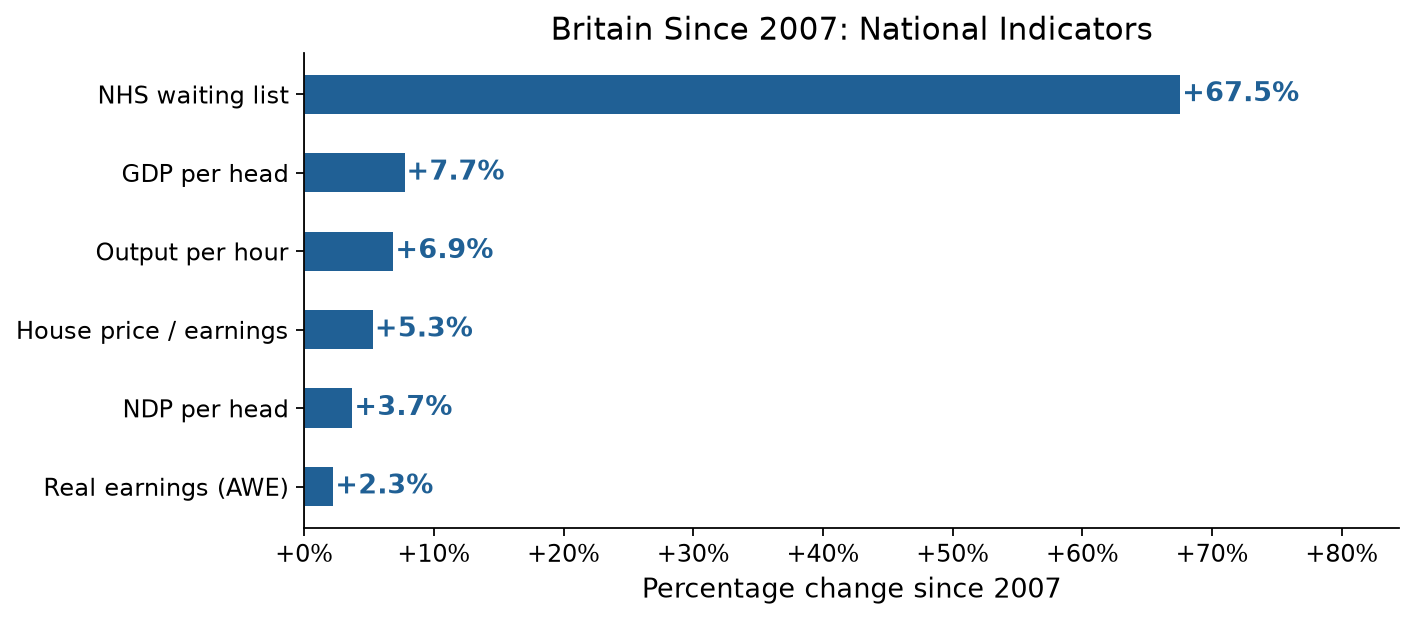
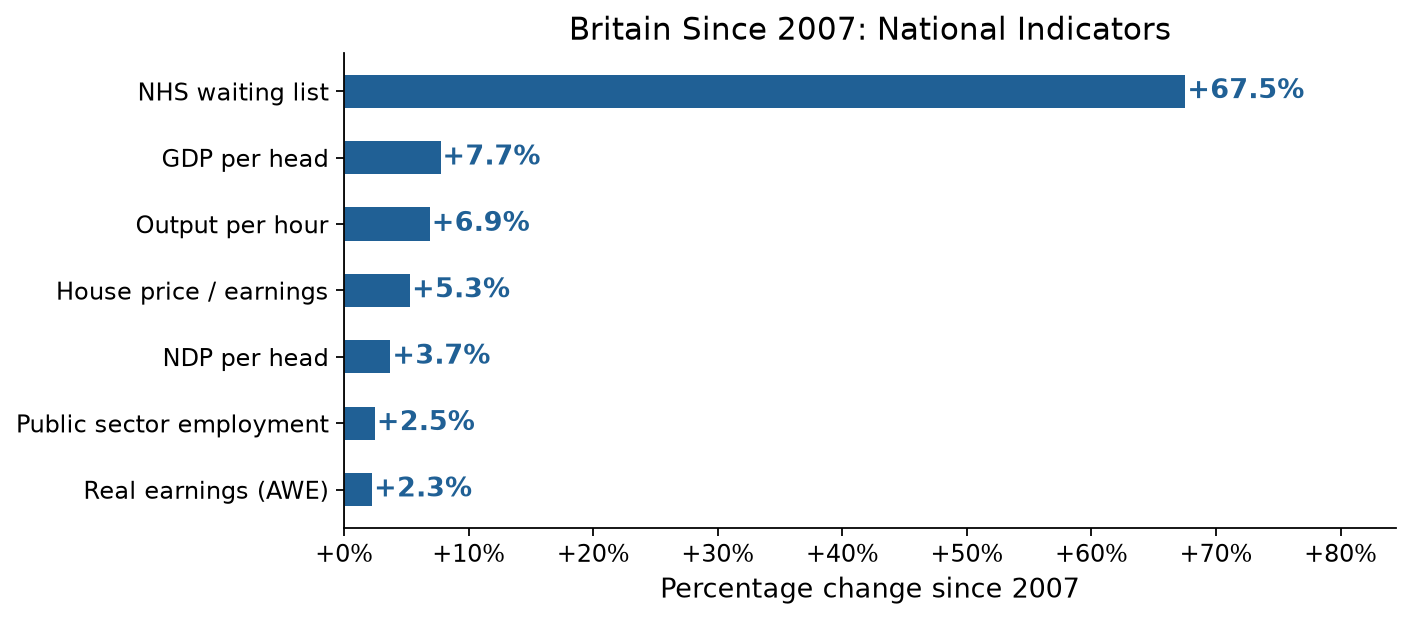
feat: add public sector employment indicator (C010) and related documentation and data

diff --git a/src/process_indicators.py b/src/process_indicators.py
@@ -241,6 +241,33 @@ def process_nhs_waiting_list() -> dict:
     }
 
 
+def _read_pse_csv() -> pd.DataFrame:
+    """Read ONS public sector employment dataset with CDID columns."""
+    raw = pd.read_csv(RAW_DIR / "pse.csv", header=None)
+    columns = raw.iloc[1].tolist()
+    df = raw.iloc[7:].copy()
+    df.columns = columns
+    df = df.rename(columns={"CDID": "period"})
+    df["period"] = df["period"].astype(str).str.strip()
+    return df
+
+
+def process_public_sector_employment() -> dict:
+    """Extract total public sector employment, headcount, UK, seasonally adjusted."""
+    df = _read_pse_csv()
+    df["value"] = pd.to_numeric(df["G7AU"], errors="coerce")
+    baseline = df.loc[df["period"] == "2007", "value"].iloc[0]
+    latest = df.loc[df["period"] == "2025", "value"].iloc[0]
+    return {
+        "indicator_id": "public_sector_employment",
+        "geography": "UK",
+        "baseline_year": 2007,
+        "baseline_value": float(baseline),
+        "latest_year": 2025,
+        "latest_value": float(latest),
+    }
+
+
 def build_national_table() -> pd.DataFrame:
     """Build the populated national comparison table."""
     rows = [
@@ -250,6 +277,7 @@ def build_national_table() -> pd.DataFrame:
         process_real_earnings(),
         process_housing_affordability(),
         process_nhs_waiting_list(),
+        process_public_sector_employment(),
     ]
     df = pd.DataFrame(rows)
     # Add remaining columns with empty placeholders
@@ -264,6 +292,7 @@ def build_national_table() -> pd.DataFrame:
         "Nominal AWE (KAB9) deflated by CPI (D7BT) to 2025 prices. Whole economy, total pay, seasonally adjusted. Monthly data available.",
         "Ratio of median house price to median gross annual workplace-based earnings. England and Wales only (not UK). Peaked at 8.95 in 2021 before declining to 7.55 in 2025. Five-year average is 8.19.",
         "NHS England total incomplete RTT pathways. August 2007 = first month of incomplete-pathway data collection. Monthly commissioner-basis values are used where available, with NHS historical time-series values retained for older periods. The series peaks in August 2023 before falling to the latest point in March 2026.",
+        "ONS public sector employment, total public sector, UK, headcount, seasonally adjusted. Reclassifications affect the total public sector series, so the employment share and excluding-major-reclassifications series should also be checked when interpreting growth.",
     ]
     return df[PROCESSED_COLS]
 
@@ -524,6 +553,34 @@ def _real_earnings_long_rows() -> list[dict]:
     return rows
 
 
+def _public_sector_employment_long_rows() -> list[dict]:
+    """Extract total public sector employment for all years 2007–2025."""
+    df = _read_pse_csv()
+    df["value"] = pd.to_numeric(df["G7AU"], errors="coerce")
+    annual = df[df["period"].str.match(r"^\d{4}$", na=False) & df["value"].notna()].copy()
+    annual["year"] = annual["period"].astype(int)
+    annual = annual[(annual["year"] >= 2007) & (annual["year"] <= 2025)]
+
+    rows = []
+    for _, row in annual.iterrows():
+        rows.append({
+            "indicator_id": "public_sector_employment",
+            "indicator_name": "Public sector employment",
+            "domain": "Public Services",
+            "geography_code": GEOGRAPHY_CODES["UK"],
+            "geography_name": "UK",
+            "geography_type": "national",
+            "period_type": "annual",
+            "period": row["period"],
+            "year": int(row["year"]),
+            "value": round(float(row["value"]), 0),
+            "unit": "thousand people, headcount SA",
+            "source_url": "https://www.ons.gov.uk/file?uri=/employmentandlabourmarket/peopleinwork/publicsectorpersonnel/datasets/publicsectoremploymenttimeseriesdataset/current/pse.csv",
+            "quality_flag": "OK",
+        })
+    return rows
+
+
 LONG_FORMAT_COLS = [
     "indicator_id", "indicator_name", "domain",
     "geography_code", "geography_name", "geography_type",
@@ -562,6 +619,9 @@ def build_long_format() -> pd.DataFrame:
     # Real earnings (computed from two series)
     all_rows.extend(_real_earnings_long_rows())
 
+    # Public sector employment (PSE has special format)
+    all_rows.extend(_public_sector_employment_long_rows())
+
     # Regional productivity
     all_rows.extend(_regional_long_rows())
 
@@ -595,7 +655,7 @@ def write_processed() -> tuple[pd.DataFrame, pd.DataFrame, pd.DataFrame]:
 def main() -> None:
     national, regional, long_format = write_processed()
 
-    print("National comparison table (6 indicators):")
+    print(f"National comparison table ({len(national)} indicators):")
     print(national[["indicator_id", "baseline_value", "latest_value"]].to_string(index=False))
 
     print(f"\nRegional productivity table ({len(regional)} regions):")

diff --git a/src/fetch_ons.py b/src/fetch_ons.py
@@ -233,6 +233,19 @@ def fetch_housing_affordability(*, force: bool = False) -> FetchResult:
     )
 
 
+def fetch_public_sector_employment(*, force: bool = False) -> FetchResult:
+    """Download ONS public sector employment time-series dataset.
+
+    Used to test whether public sector employment has grown since 2007.
+    """
+    return _fetch(
+        indicator_id="public_sector_employment",
+        url=f"{ONS_FILE_BASE}?uri=/employmentandlabourmarket/peopleinwork/publicsectorpersonnel/datasets/publicsectoremploymenttimeseriesdataset/current/pse.csv",
+        filename="pse.csv",
+        force=force,
+    )
+
+
 def fetch_nhs_waiting_list(*, force: bool = False) -> FetchResult:
     """Verify NHS waiting list CSV is present (data committed to repo).
 
@@ -294,6 +307,7 @@ def fetch_all(*, force: bool = False) -> FetchReport:
         fetch_awe_nominal,
         fetch_cpi,
         fetch_housing_affordability,
+        fetch_public_sector_employment,
         fetch_nhs_waiting_list,
         fetch_ae_monthly_timeseries,
     ]

diff --git a/src/build_outputs.py b/src/build_outputs.py
@@ -85,6 +85,10 @@ def build_claims_matrix(national: pd.DataFrame, regional: pd.DataFrame) -> pd.Da
     nhs_change = nhs_raw["percentage_change"].iloc[0] if not nhs_raw.empty else 0
     nhs_2007 = nhs_raw["baseline_value"].iloc[0] if not nhs_raw.empty else 0
     nhs_latest = nhs_raw["latest_value"].iloc[0] if not nhs_raw.empty else 0
+    pse_raw = national[national["indicator_id"] == "public_sector_employment"]
+    pse_change = pse_raw["percentage_change"].iloc[0] if not pse_raw.empty else 0
+    pse_2007 = pse_raw["baseline_value"].iloc[0] if not pse_raw.empty else 0
+    pse_latest = pse_raw["latest_value"].iloc[0] if not pse_raw.empty else 0
     london_now = regional[regional["geography"] == "London"]["latest_value"].iloc[0]
     london_2007 = regional[regional["geography"] == "London"]["baseline_value"].iloc[0]
     scotland_change = regional[regional["geography"] == "Scotland"]["percentage_change"].iloc[0]
@@ -98,6 +102,7 @@ def build_claims_matrix(national: pd.DataFrame, regional: pd.DataFrame) -> pd.Da
         "C006": ("Strong", f"Real earnings (CPI-deflated AWE) rose only {earnings_change:.1f}% since 2007, compared with GDP per head growth of {gdp_change:.1f}%. Living standards, as measured by real pay, have barely improved."),
         "C007": ("Partial", f"Median house price to earnings ratio rose from {housing_2007:.1f} (2007) to {housing_2025:.1f} (2025), but peaked at 8.95 in 2021 before declining. The 5-year average of 8.19 confirms sustained pressure above 2007 levels, though the endpoint comparison alone understates the deterioration experienced during 2015–2023."),
         "C008": ("Strong", f"NHS England waiting list rose from {nhs_2007/1e6:.2f}M (Aug 2007) to {nhs_latest/1e6:.2f}M (Mar 2026), an increase of {nhs_change:.0f}%. The post-2020 COVID backlog accounts for much of the increase, but the pre-COVID trend was already upward (2.4M in 2010 to 4.2M in 2020)."),
+        "C010": ("Partial", f"Public sector employment rose from {pse_2007/1000:.2f}M in 2007 to {pse_latest/1000:.2f}M in 2025, an increase of {pse_latest - pse_2007:.0f} thousand ({pse_change:.1f}%). The public sector share of total employment fell from 20.5% to 18.0%, so headcount grew but the sector shrank as a share of employment."),
     }
 
     for claim_id, (strength, caveat) in findings.items():
@@ -234,6 +239,7 @@ def build_national_indicators_chart(national: pd.DataFrame) -> None:
         "real_earnings": "Real earnings (AWE)",
         "housing_affordability": "House price / earnings",
         "nhs_waiting_list": "NHS waiting list",
+        "public_sector_employment": "Public sector employment",
     }
     df["label"] = df["indicator_id"].map(label_map)
     df = df.sort_values("percentage_change")

diff --git a/src/qa_checks.py b/src/qa_checks.py
@@ -109,8 +109,8 @@ def test_processed_data() -> None:
     national = pd.read_csv(PROCESSED_DIR / "national_comparison_skeleton.csv")
     regional = pd.read_csv(PROCESSED_DIR / "regional_productivity_skeleton.csv")
 
-    check("National table has 6 rows",
-          len(national) == 6,
+    check("National table has 7 rows",
+          len(national) == 7,
           f"Got {len(national)}")
 
     check("Regional table has 12 rows",
@@ -392,6 +392,7 @@ def test_raw_data() -> None:
         "kab9_awe.csv": "Nominal AWE",
         "d7bt_cpi.csv": "CPI index",
         "housing_affordability.xlsx": "Housing affordability",
+        "pse.csv": "Public sector employment",
         "nhs_waiting_list.csv": "NHS waiting list",
         "ae_monthly_timeseries.xls": "A&E monthly time series",
     }

diff --git a/docs/index.md b/docs/index.md
@@ -11,7 +11,7 @@ July 2026 | Data sources: Office for National Statistics and NHS England
 
 ## Executive summary
 
-This report compares Britain's economy in 2007, the peak before the global financial crisis, with the latest data available. It draws on 6 national indicators, one A&E extension and 12 regional productivity measures, taken from the Office for National Statistics and NHS England and processed through a reproducible pipeline.
+This report compares Britain's economy in 2007, the peak before the global financial crisis, with the latest data available. It draws on 7 national indicators, one A&E extension and 12 regional productivity measures, taken from the Office for National Statistics and NHS England and processed through a reproducible pipeline.
 
 ### Main findings
 
@@ -22,6 +22,7 @@ This report compares Britain's economy in 2007, the peak before the global finan
 - Housing affordability has been under sustained pressure. The ratio of house prices to earnings rose from 7.2 (2007) to a peak of 8.95 (2021), before falling to 7.55 (2025). The 5-year average of 8.19 shows that affordability was much worse than in 2007 for most of the post-crisis period.
 - NHS waiting lists have grown sharply. Total incomplete pathways rose from 4.19 million (August 2007) to 7.01 million (March 2026) — an increase of 67.5%. The list peaked at 7.75 million in August 2023 before falling, but it remains far above its pre-COVID level.
 - A&E performance has worsened. The share of attendances completed within 4 hours fell from 96.8% in 2011 to 74.7% in 2025. There is no 2007 baseline in the current monthly A&E series, so this evidence is partial.
+- Public sector employment has grown slightly in headcount terms. Total UK public sector employment rose from 6.03 million in 2007 to 6.18 million in 2025, an increase of 149,000 or 2.5%. But public sector employment fell as a share of all employment, from 20.5% to 18.0%.
 - Regional inequality is narrowing, but slowly. Scotland and Northern Ireland recorded the strongest convergence gains, while London's relative advantage shrank. But London is still nearly 29% above the UK average.
 
 Britain's post-2007 economic performance is not a dip that will revert. It is a break from the pre-crisis trend. After 18 years, the data is unambiguous: the old growth trajectory has not returned.
@@ -83,7 +84,7 @@ Whatever the cause, the growing gap means GDP per head overstates the improvemen
 
 ![National indicators: percentage change since 2007](assets/charts/national_indicators_change.png)
 
-Figure 3: Percentage change in the 6 national indicators since 2007. The NHS waiting list (+67.5%) is the largest change by far. GDP per head (+7.7%), output per hour (+6.9%), and house price to earnings ratio (+5.3%) show moderate increases. NDP per head (+3.7%) and real earnings (+2.3%) show the weakest growth. The gap between output and living standards has widened.
+Figure 3: Percentage change in the 7 national indicators since 2007. The NHS waiting list (+67.5%) is the largest change by far. GDP per head (+7.7%), output per hour (+6.9%), house price to earnings ratio (+5.3%), NDP per head (+3.7%), public sector employment (+2.5%) and real earnings (+2.3%) show much smaller changes. The gap between output and living standards has widened.
 
 ---
 
@@ -281,7 +282,37 @@ We use NHS England A&E Attendances and Emergency Admissions data. The measure co
 
 ---
 
-## 8. Regional productivity
+## 8. Public sector employment
+
+### The main finding
+
+Total UK public sector employment rose from 6.03 million in 2007 to 6.18 million in 2025. That is an increase of 149,000 people, or 2.5%.
+
+| Measure | 2007 | 2025 | Change |
+| --- | --- | --- | --- |
+| Public sector employment | 6.03M | 6.18M | +149,000 (+2.5%) |
+| Public sector share of total employment | 20.5% | 18.0% | −2.5 percentage points |
+| Public sector employment excluding major reclassifications | 5.58M | 5.93M | +350,000 (+6.3%) |
+
+### Interpretation
+
+The claim that the public sector has grown is true in headcount terms, but only modestly for the headline total public sector series.
+
+The qualification matters. Public sector employment fell as a share of total employment, from 20.5% in 2007 to 18.0% in 2025. That means the public sector employs more people than in 2007, but it is smaller relative to the whole labour market.
+
+The composition also changed. Central government employment rose from 2.71 million to 4.05 million. Local government employment fell from 2.95 million to 1.97 million. Some of this reflects changes in classification and responsibility rather than a simple shift in service capacity.
+
+### Evidence rating: partial
+
+The evidence is partial because the answer depends on the denominator and classification. The headcount rose. The employment share fell. Reclassifications affect the headline public sector series, so we also check the series excluding major reclassifications.
+
+### Data note
+
+We use the ONS Public sector employment time series, dataset PSE. The headline measure is total public sector employment, UK, headcount, seasonally adjusted. The source is official and gives a clean 2007 baseline.
+
+---
+
+## 9. Regional productivity
 
 ### The picture across Britain
 
@@ -332,7 +363,7 @@ The claim that "regional productivity inequality persists" is rated partial. The
 
 ---
 
-## 9. Claims-evidence matrix
+## 10. Claims-evidence matrix
 
 The claims-evidence matrix links broad policy and media claims to specific indicators and assesses whether the data supports them.
 
@@ -347,16 +378,18 @@ The claims-evidence matrix links broad policy and media claims to specific indic
 | C007: Housing pressure has worsened since 2007                                          | Partial         | Median house price to earnings ratio rose from 7.2× (2007) to 7.55× (2025), but peaked at 8.95× in 2021 before declining. The 5-year average of 8.19× shows sustained pressure above 2007 levels, though the endpoint comparison alone hides how bad affordability became during 2015 to 2023.              |
 | C008: Public service pressure (NHS waiting list) has increased substantially since 2007 | Strong          | NHS England waiting list rose from 4.19M (Aug 2007) to 7.01M (Mar 2026), a 67.5% increase. Post-COVID backlog accounts for much of the increase, but the pre-COVID trend was already upward (2.4M in 2010 to 4.2M in 2020). Data covers England only.                                                       |
 | C009: A&E performance has worsened since the early 2010s                                | Partial         | A&E attendances completed within 4 hours fell from an annual average of 96.8% in 2011 to 74.7% in 2025, a fall of 22.1 percentage points. Evidence is partial because there is no 2007 baseline and comparability caveats apply before June 2015 and during the 2019 to 2023 clinical standards field test. |
+| C010: Public sector employment has grown since 2007                                     | Partial         | Public sector employment rose from 6.03M in 2007 to 6.18M in 2025, an increase of 149,000 or 2.5%. But public sector employment fell as a share of total employment, from 20.5% to 18.0%. Reclassifications affect the headline series.                                         |
 
 ---
 
-## 10. What is still left
+## 11. What is still left
 
-The framework now covers real earnings, housing affordability, NHS waiting-list pressure and A&E performance alongside output, income, productivity and regional productivity. The remaining gaps are narrower — mostly about coverage, detail and the question of why things changed.
+The framework now covers real earnings, housing affordability, NHS waiting-list pressure, A&E performance and public sector employment alongside output, income, productivity and regional productivity. The remaining gaps are narrower — mostly about coverage, detail and the question of why things changed.
 
 - Distributional living standards. We now measure real earnings through CPI-deflated Average Weekly Earnings (+2.3% since 2007), but GDP per head and AWE are averages. Household disposable income, income inequality, poverty, and wealth measures would show how gains and losses were distributed.
 - Full UK housing coverage. We now measure housing affordability through the house price to earnings ratio, but the ONS series covers England and Wales only. Scotland and Northern Ireland remain outside the housing indicator. Phase 5 reviewed official sources and did not find a directly comparable four-nation price-to-earnings ratio.
 - Broader public-service pressure. We now measure NHS waiting times and A&E four-hour performance for England. Phase 5 reviewed social care, local authority spending power, courts and schools, but did not add them because the available official series do not support a clean 2007-to-latest comparison for this pack.
+- Public sector scale. We now measure public sector employment. Public spending, public service output and public service productivity remain outside the current scope.
 - International comparisons. The domestic productivity trend is clear, but placing it in an international context would strengthen the analysis.
 - Sub-regional variation. City-region and local authority breakdowns would reveal variation hidden by ITL1 regional averages.
 - Policy attribution. This framework measures what happened, not why. To explain changes with reference to specific policies, external shocks, or structural shifts would need a different analytical approach.
@@ -365,7 +398,7 @@ We document these gaps in `docs/future-plan.md`. Most of the original roadmap is
 
 ---
 
-## 11. Methodology
+## 12. Methodology
 
 ### Data sources
 
@@ -380,6 +413,7 @@ We took data from the Office for National Statistics and NHS England. Most sourc
 | House price to earnings ratio          | —           | Housing affordability (England and Wales)   | 2025   |
 | NHS waiting list (incomplete pathways) | —           | NHS England RTT data                        | 2026   |
 | A&E attendances within 4 hours         | —           | NHS England A&E data                        | 2025   |
+| Public sector employment               | G7AU        | Public sector employment (PSE)              | 2025   |
 | Regional output per hour               | —           | Regional labour productivity (PRODBYREG)    | 2023   |
 
 All national values are Chained Volume Measures (CVM) at 2023 reference prices, seasonally adjusted. Regional values are expressed as an index relative to the UK average (UK = 100).
@@ -415,6 +449,7 @@ All source code is in `src/`. Raw data is cached in `data/raw/`. Methodology is 
 - Housing affordability data covers England and Wales only, not Scotland or Northern Ireland.
 - NHS waiting list data covers England only. The 2007 baseline is the first month of RTT data collection (August 2007), which is not necessarily a "normal" pre-crisis level.
 - A&E four-hour performance data covers England only. The nearest full-year baseline is 2011, not 2007. Monthly values before June 2015 are estimated from weekly data. May 2019 to May 2023 performance data excludes clinical standards field-test trusts.
+- Public sector employment is UK-wide, headcount and seasonally adjusted. Reclassifications affect the headline total public sector series, so the report also checks public sector employment as a share of total employment and the excluding-major-reclassifications series.
 - ONS and NHS England statistics can be revised. The values in this report reflect the latest available source files as of July 2026.
 
 ---